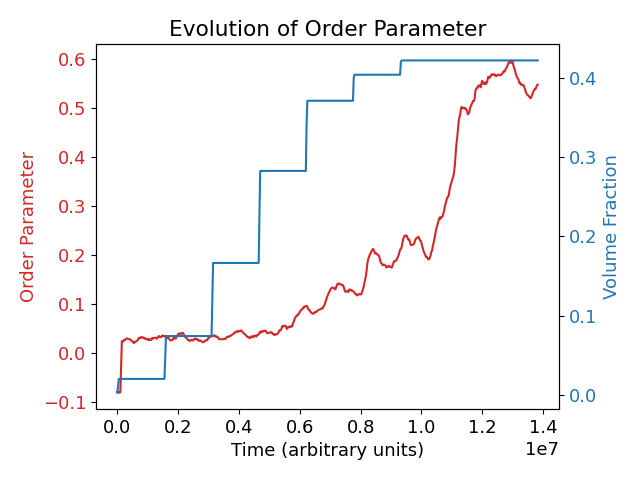
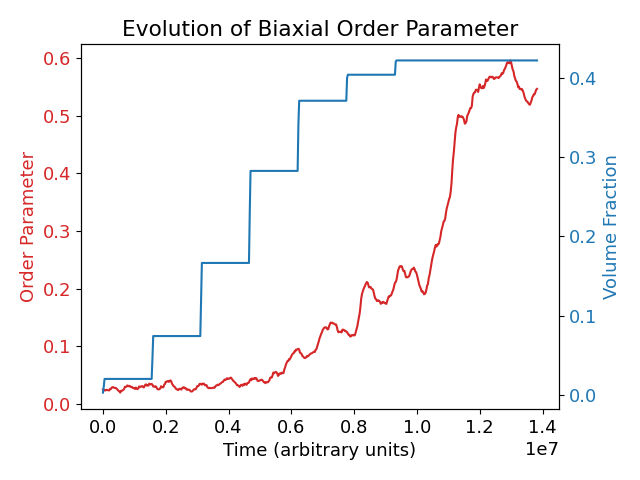
corrected biaxial director diffuse plots

diff --git a/Phase_Structure/Nunchucks/Fixed_Angle/2_bend_165_deg_oblong/Longer_equillibrium/biaxial_director_plot.py b/Phase_Structure/Nunchucks/Fixed_Angle/2_bend_165_deg_oblong/Longer_equillibrium/biaxial_director_plot.py
@@ -191,6 +191,8 @@ for i, time in enumerate(time_range):  # interate over dump files
 # plt.savefig("order_plot.png")
 # plt.show()
 
+order_param_values[0] = order_param_values[1]  # remove error at time 0
+
 fig, ax1 = plt.subplots()
 
 color = "tab:red"
